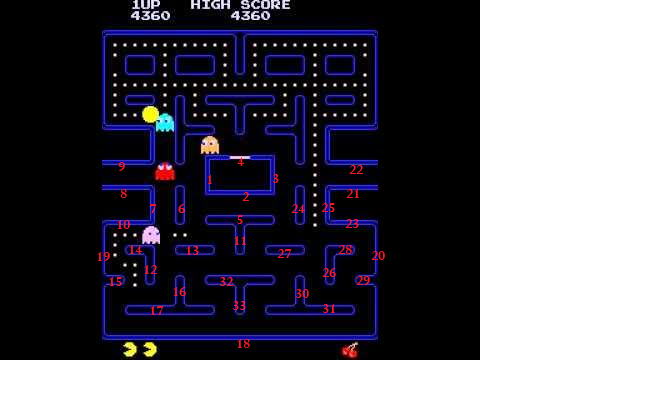
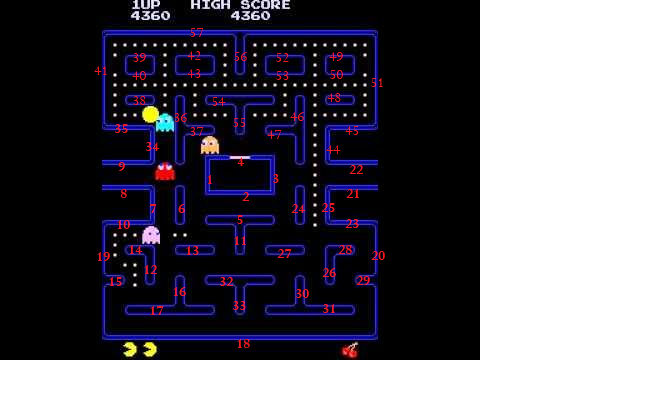
finished level geometry and fixed collision

diff --git a/script.js b/script.js
@@ -1,6 +1,7 @@
 // set constants
 const FPS = 60; // framerate
 const FUDGE = 0; // collision fudger px
+const KNOCK = 1; // collision knockback px
 const PAC_SIZE = 16; // pacman radius px
 const PAC_SPD = 150; // pacman speed modifier
 const GLOBAL_SPD = 1; // global speed modifier
@@ -91,13 +92,23 @@ function distBetweenPoints(x1, y1, x2, y2) {
 	return Math.sqrt(Math.pow(x2 - x1, 2) + Math.pow(y2 - y1, 2));
 }
 
-// total width of passage = 38px // 1 = vertical, 0 = horizontal
+// total width of passage = 38px // true = vertical, false = horizontal
 function createLevel() {
-	const wall1 = new Wall(canv.width / 2 - 80, canv.height / 2, 82, true);
-	const wall2 = new Wall(canv.width / 2, canv.height / 2 + 33, 160, false);
-	const wall3 = new Wall(canv.width / 2 + 80, canv.height / 2, 82, true);
+	const wall1 = new Wall(
+		canv.width / 2 - 80,
+		canv.height / 2 - 0.5,
+		81,
+		true
+	);
+	const wall2 = new Wall(canv.width / 2, canv.height / 2 + 32, 160, false);
+	const wall3 = new Wall(
+		canv.width / 2 + 80,
+		canv.height / 2 - 0.5,
+		81,
+		true
+	);
 	const wall4 = new Wall(canv.width / 2, canv.height / 2 - 33, 160, false);
-	const wall5 = new Wall(canv.width / 2, canv.height / 2 + 87, 176, false);
+	const wall5 = new Wall(canv.width / 2, canv.height / 2 + 86, 176, false);
 	const wall6 = new Wall(
 		canv.width / 2 - 134,
 		canv.height / 2 + 58,
@@ -246,6 +257,130 @@ function createLevel() {
 	);
 	const wall32 = new Wall(canv.width / 2, canv.height / 2 + 195, 176, false);
 	const wall33 = new Wall(canv.width / 2, canv.height / 2 + 224, 64, true);
+	const wall34 = new Wall(
+		canv.width / 2 - 188,
+		canv.height / 2 - 55.5,
+		79,
+		true
+	);
+	const wall35 = new Wall(
+		canv.width / 2 - 246,
+		canv.height / 2 - 87,
+		100,
+		false
+	);
+	const wall36 = new Wall(
+		canv.width / 2 - 134,
+		canv.height / 2 - 82.5,
+		133,
+		true
+	);
+	const wall37 = new Wall(
+		canv.width / 2 - 94,
+		canv.height / 2 - 87,
+		96,
+		false
+	);
+	const wall38 = new Wall(
+		canv.width / 2 - 211,
+		canv.height / 2 - 141,
+		62,
+		false
+	);
+	const wall39 = new Wall(
+		canv.width / 2 - 211,
+		canv.height / 2 - 211,
+		62,
+		false
+	);
+	const wall40 = new Wall(
+		canv.width / 2 - 211,
+		canv.height / 2 - 195,
+		62,
+		false
+	);
+	const wall41 = new Wall(
+		canv.width / 2 - 288,
+		canv.height / 2 - 172,
+		186,
+		true
+	);
+	const wall42 = new Wall(
+		canv.width / 2 - 94,
+		canv.height / 2 - 211,
+		96,
+		false
+	);
+	const wall43 = new Wall(
+		canv.width / 2 - 94,
+		canv.height / 2 - 195,
+		96,
+		false
+	);
+	const wall44 = new Wall(
+		canv.width / 2 + 188,
+		canv.height / 2 - 55.5,
+		79,
+		true
+	);
+	const wall45 = new Wall(
+		canv.width / 2 + 246,
+		canv.height / 2 - 87,
+		100,
+		false
+	);
+	const wall46 = new Wall(
+		canv.width / 2 + 134,
+		canv.height / 2 - 82.5,
+		133,
+		true
+	);
+	const wall47 = new Wall(
+		canv.width / 2 + 94,
+		canv.height / 2 - 87,
+		96,
+		false
+	);
+	const wall48 = new Wall(
+		canv.width / 2 + 211,
+		canv.height / 2 - 141,
+		62,
+		false
+	);
+	const wall49 = new Wall(
+		canv.width / 2 + 211,
+		canv.height / 2 - 211,
+		62,
+		false
+	);
+	const wall50 = new Wall(
+		canv.width / 2 + 211,
+		canv.height / 2 - 195,
+		62,
+		false
+	);
+	const wall51 = new Wall(
+		canv.width / 2 + 288,
+		canv.height / 2 - 172,
+		186,
+		true
+	);
+	const wall52 = new Wall(
+		canv.width / 2 + 94,
+		canv.height / 2 - 211,
+		96,
+		false
+	);
+	const wall53 = new Wall(
+		canv.width / 2 + 94,
+		canv.height / 2 - 195,
+		96,
+		false
+	);
+	const wall54 = new Wall(canv.width / 2, canv.height / 2 - 141, 176, false);
+	const wall55 = new Wall(canv.width / 2, canv.height / 2 - 111.5, 65, true);
+	const wall56 = new Wall(canv.width / 2, canv.height / 2 - 226, 80, true);
+	const wall57 = new Wall(canv.width / 2, canv.height / 2 - 265, 592, false);
 	walls.push(
 		wall1,
 		wall2,
@@ -279,7 +414,31 @@ function createLevel() {
 		wall30,
 		wall31,
 		wall32,
-		wall33
+		wall33,
+		wall34,
+		wall35,
+		wall36,
+		wall37,
+		wall38,
+		wall39,
+		wall40,
+		wall41,
+		wall42,
+		wall43,
+		wall44,
+		wall45,
+		wall46,
+		wall47,
+		wall48,
+		wall49,
+		wall50,
+		wall51,
+		wall52,
+		wall53,
+		wall54,
+		wall55,
+		wall56,
+		wall57
 	);
 }
 
@@ -333,17 +492,25 @@ function update() {
 		// loop over every wall
 		for (let i = 0; i < walls.length; i++) {
 			let wall = walls[i];
-			if (!wall.dir) {
-				walluppery = wall.y - WALL_WIDTH / 2;
-				walllowery = wall.y + WALL_WIDTH / 2;
-				wallrightx = wall.x + wall.dim / 2;
-				wallleftx = wall.x - wall.dim / 2;
-			} else {
+			// generalise for both wall types
+			if (wall.dir) {
 				walluppery = wall.y - wall.dim / 2;
 				walllowery = wall.y + wall.dim / 2;
 				wallrightx = wall.x + WALL_WIDTH / 2;
 				wallleftx = wall.x - WALL_WIDTH / 2;
+			} else {
+				walluppery = wall.y - WALL_WIDTH / 2;
+				walllowery = wall.y + WALL_WIDTH / 2;
+				wallrightx = wall.x + wall.dim / 2;
+				wallleftx = wall.x - wall.dim / 2;
 			}
+			// quadrants for  knockback dir
+			let m1 = (walllowery - walluppery) / (wallrightx - wallleftx);
+			let c1 = walluppery - wallleftx * m1;
+			let x1 = (pacman.y - c1) / m1;
+			let m2 = (walluppery - walllowery) / (wallrightx - wallleftx);
+			let c2 = walllowery - wallleftx * m2;
+			let x2 = (pacman.y - c2) / m2;
 			// check if vertical face falls within range
 			if (walllowery + FUDGE >= uppery && walluppery - FUDGE <= lowery) {
 				// check if horizontal face falls within range
@@ -351,9 +518,18 @@ function update() {
 					wallleftx + FUDGE <= rightx &&
 					wallrightx + FUDGE >= leftx
 				) {
-					pacman.x -= pacman.xv / FPS;
+					// determine knockback dir
+					debugger;
+					if (pacman.x > x1 && pacman.x > x2) {
+						pacman.x += KNOCK;
+					} else if (pacman.x > x1 && pacman.x < x2) {
+						pacman.y -= KNOCK;
+					} else if (pacman.x < x1 && pacman.x > x2) {
+						pacman.y += KNOCK;
+					} else {
+						pacman.x -= KNOCK;
+					}
 					pacman.xv = 0;
-					pacman.y -= pacman.yv / FPS;
 					pacman.yv = 0;
 					break;
 				}

diff --git a/index.html b/index.html
@@ -7,7 +7,7 @@
 	</head>
 
 	<body>
-		<canvas id="gameCanvas" width="600" height="760"></canvas>
+		<canvas id="gameCanvas" width="600" height="628"></canvas>
 		<script src="/script.js"></script>
 	</body>
 </html>
